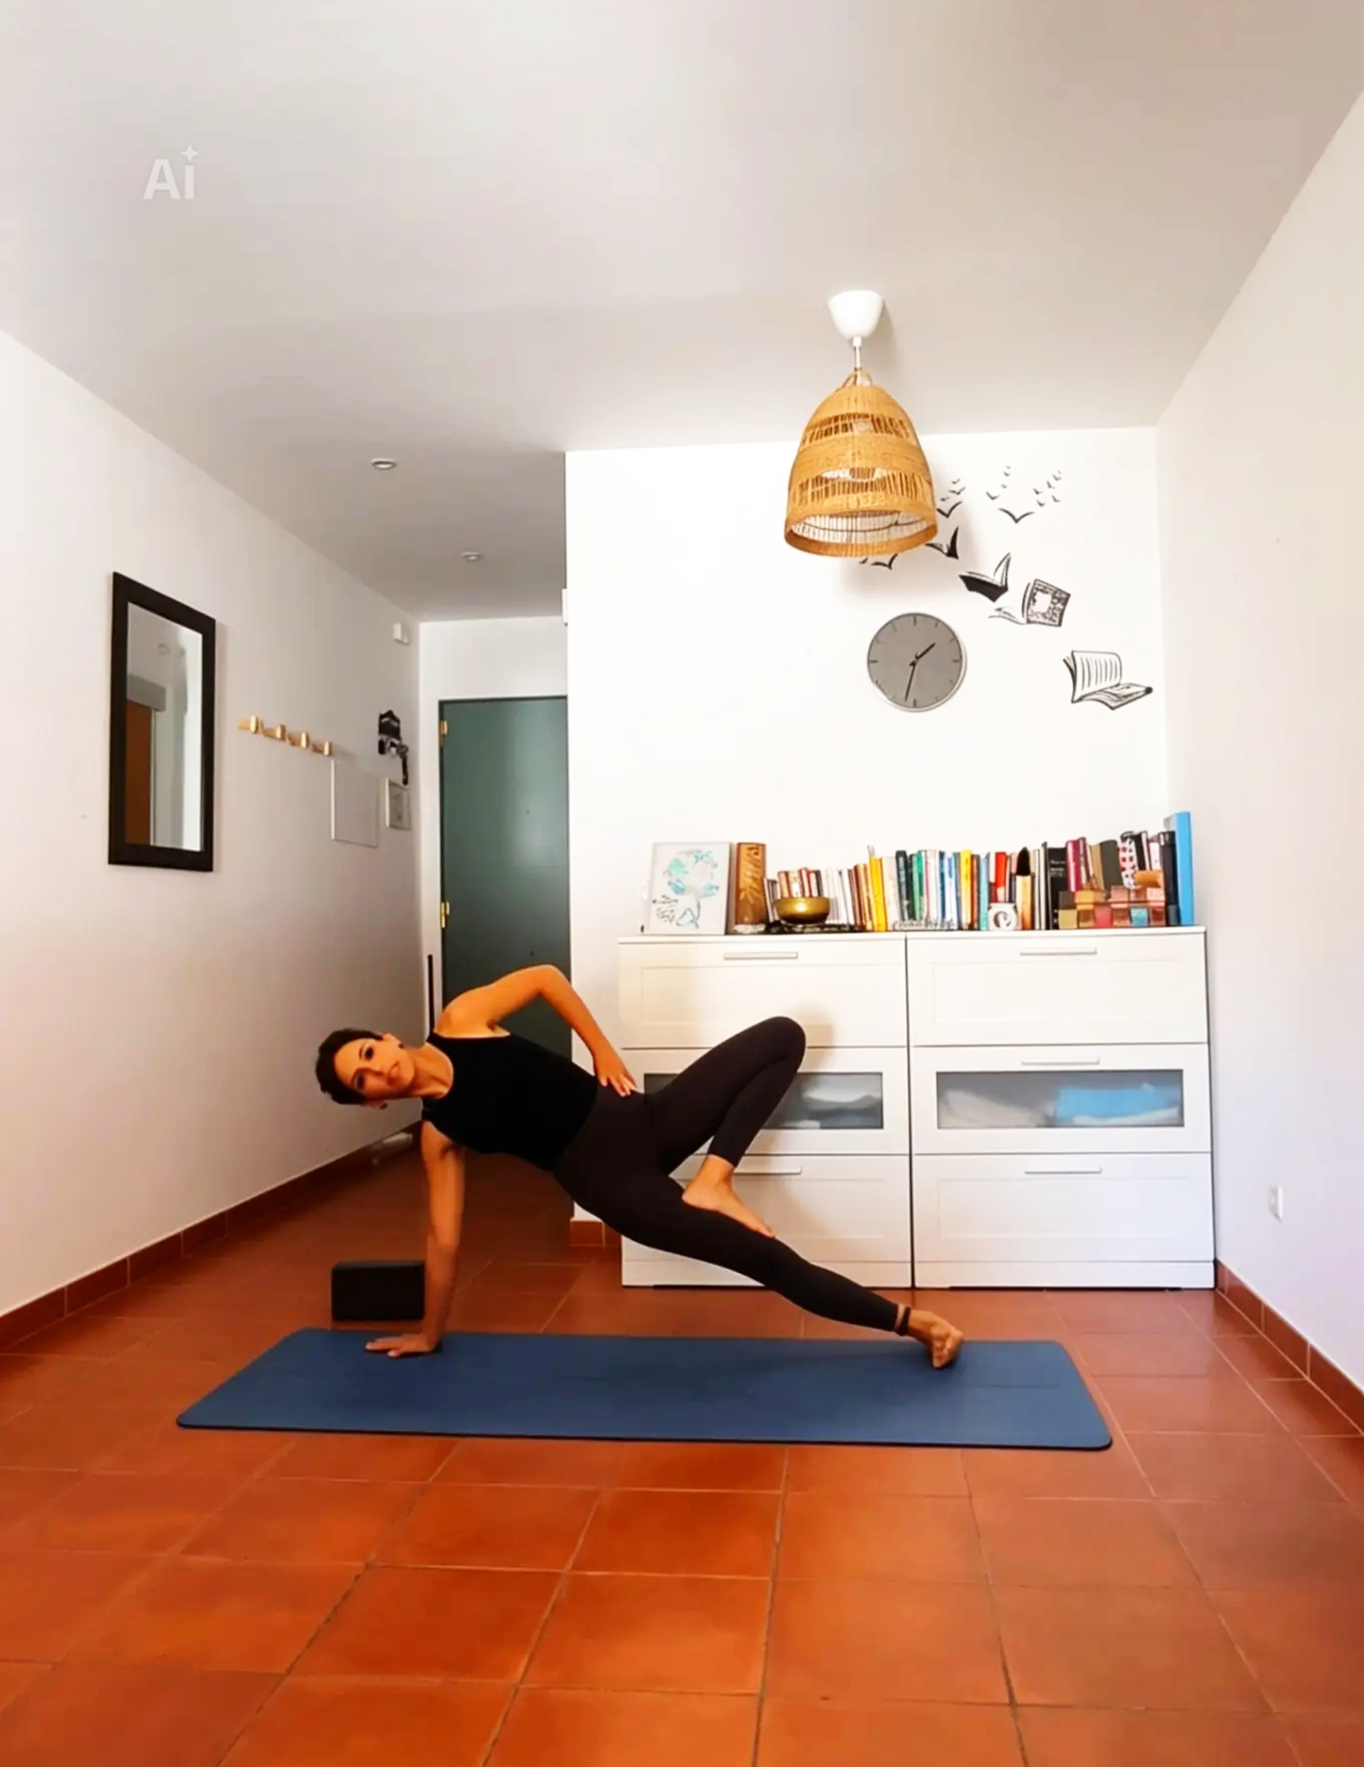
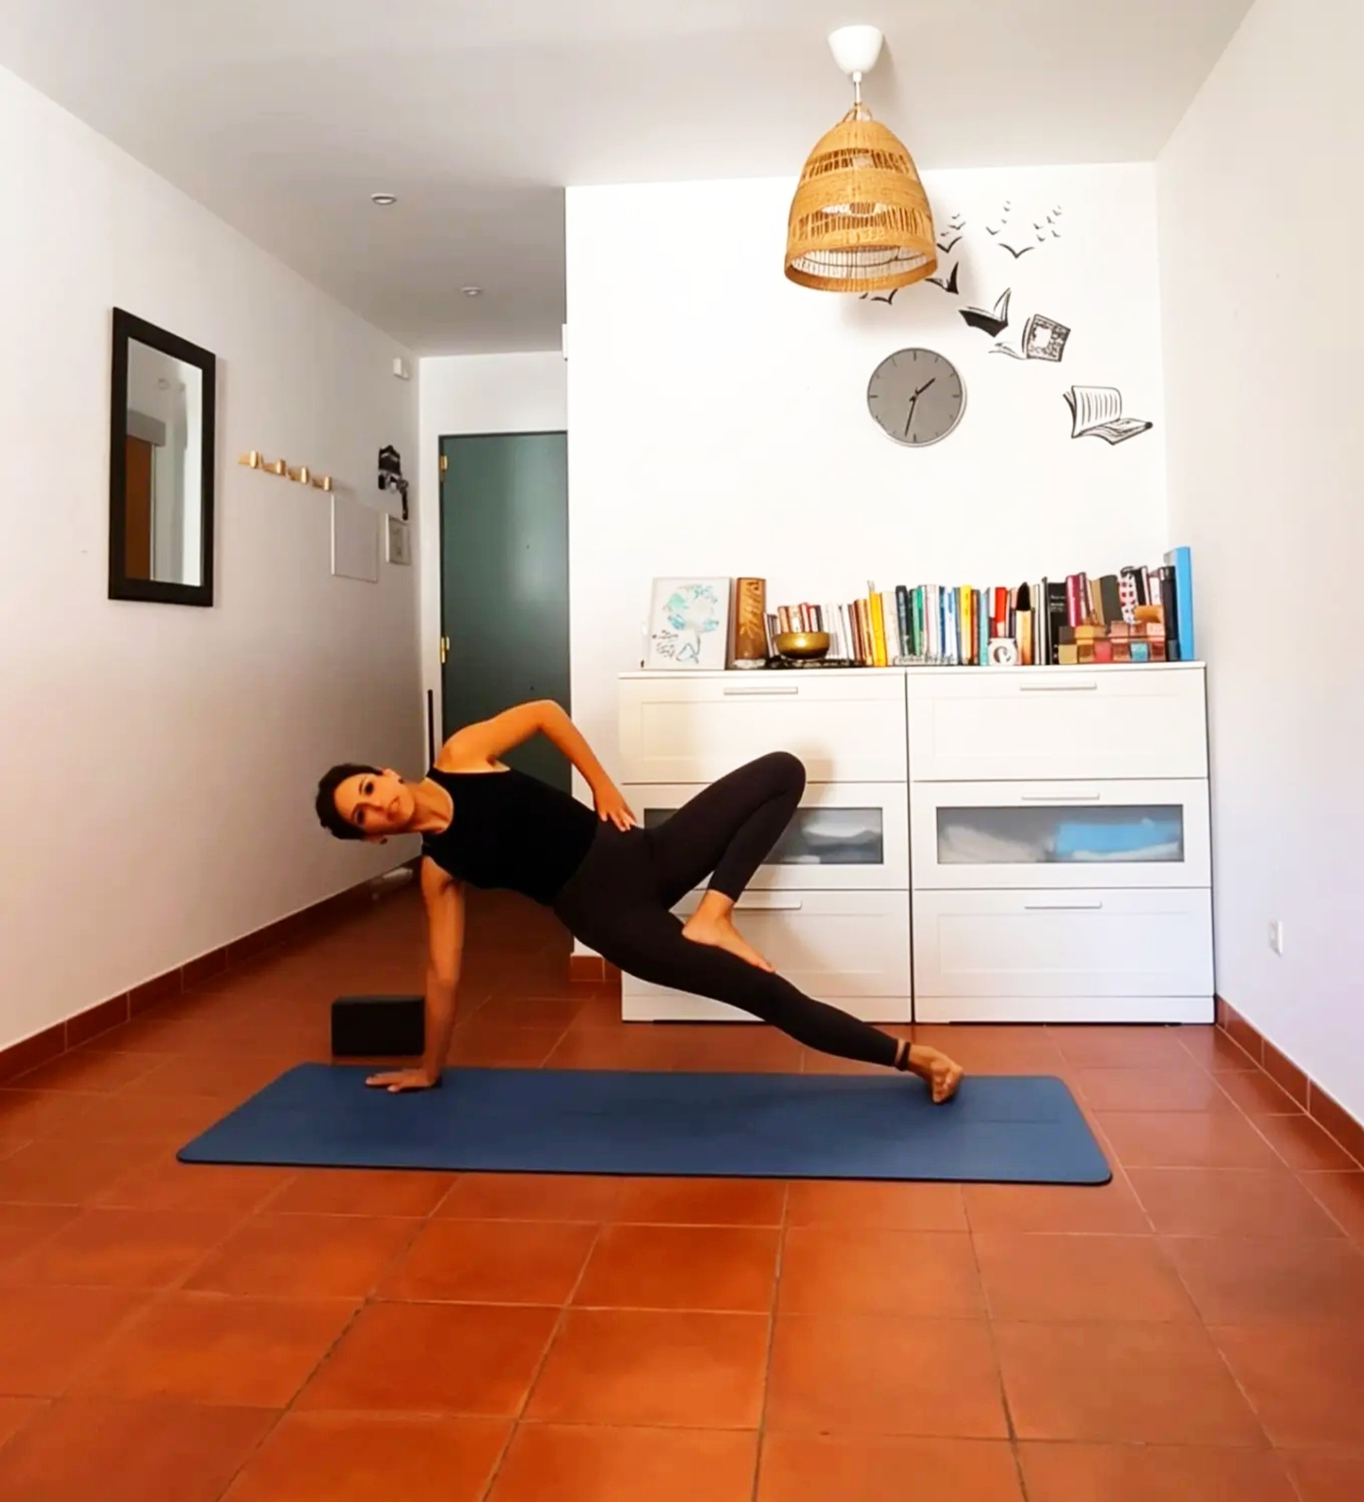
Añade el artículo Abhyasa y Vairagya, mejora la tipografía del blog y rediseña el modal de bienvenida
Nuevo artículo sobre los conceptos de práctica constante y desapego al
resultado de los Yoga Sutras, con encuadre de portada ajustado para
desktop y móvil. Los subtítulos de los tres artículos del blog pasan a
mayúsculas con acento de marca y el texto de párrafo es más grande y
legible. El modal de bienvenida al iniciar sesión incorpora el icono
de la marca y un fondo más cuidado en vez de la caja plana anterior.

Claude-Session: https://claude.ai/code/session_017kxmKA6VURmgad1ureyhM5

diff --git a/frontend/src/data/blogPosts.js b/frontend/src/data/blogPosts.js
@@ -8,6 +8,61 @@
 
 export const BLOG_POSTS = [
   {
+    slug: 'abhyasa-y-vairagya',
+    titulo: 'Abhyasa y Vairagya: la práctica constante y el desapego al resultado',
+    resumen: 'Dos palabras sánscritas de los Yoga Sutras que se sostienen mutuamente: la práctica constante y el desapego a los resultados. Por qué un cuerpo diferente cada día no es un problema que resolver, sino el punto de partida real.',
+    imagenPortada: '/images/yoga27.jpg',
+    imagenPortadaAlt: 'Postura de perro boca abajo, metáfora de la constancia y el desapego al resultado',
+    fecha: '2026-08-25',
+    tiempoLectura: '7 min de lectura',
+    contenido: [
+      {
+        tipo: 'parrafo',
+        texto: 'Cada cuerpo que llega a la esterilla es distinto y no solo de una persona a otra, sino del mismo cuerpo de un día para otro. Hoy quizá llega con energía de sobra; mañana, cansado, dolorido, con la cabeza en otro sitio. Eso no es un fallo en tu práctica: es lo normal. Hay dos palabras sánscritas, tan antiguas como los propios Yoga Sutras de Patanjali, que explican por qué esa variación no solo no estorba el camino del yoga, sino que es parte de él: Abhyasa y Vairagya.',
+      },
+      { tipo: 'subtitulo', texto: 'Abhyasa — el gesto de volver, una y otra vez' },
+      {
+        tipo: 'parrafo',
+        texto: 'Patanjali lo dice en el sutra 1.13: "tatra sthitau yatno\'bhyasah" — el esfuerzo sostenido por permanecer estable es Abhyasa. No es intensidad puntual ni un arranque de motivación de enero: es repetición. El sutra siguiente, el 1.14, lo deja aún más claro: la práctica se afianza de verdad cuando se sostiene mucho tiempo, sin interrupción, y con una actitud sincera hacia ella. Ni un fin de semana de retiro intensivo ni una racha de tres semanas perfectas — es volver, sesión tras sesión, durante meses, durante años, aunque algunos días sean diez minutos y otros una hora entera.',
+      },
+      {
+        tipo: 'parrafo',
+        texto: 'Es exactamente lo que trabajamos en "El regreso constante", una de las clases del Pack Raíz: notar que la mente se fue, y volver. Sin culpa. Las veces que haga falta.',
+      },
+      { tipo: 'subtitulo', texto: 'Vairagya — soltar el apego a lo que la postura debería ser' },
+      {
+        tipo: 'parrafo',
+        texto: 'Si Abhyasa es el esfuerzo de seguir, Vairagya es soltar la necesidad de que ese esfuerzo produzca un resultado concreto. El sutra 1.15 lo define como el dominio de no anhelar aquello que ves o de lo que oyes hablar — en la esterilla, eso se traduce en no perseguir la foto de la postura perfecta, no medir la clase de hoy contra la de la semana pasada, no necesitar que el cuerpo obedezca. Vairagya no es indiferencia ni pasividad: puedes seguir intentando la postura con todo tu esfuerzo y, al mismo tiempo, no necesitar que salga de una manera concreta para que la práctica haya valido la pena.',
+      },
+      { tipo: 'subtitulo', texto: 'Por qué van siempre de la mano' },
+      {
+        tipo: 'parrafo',
+        texto: 'Patanjali las presenta juntas, en el mismo sutra, por una razón: por separado, cada una se tuerce. Abhyasa sin Vairagya se convierte en exigencia — practicar para conseguir, para lucir, para llegar a algún sitio, y castigarte cuando no llegas. Vairagya sin Abhyasa se convierte en resignación — dejar de intentarlo con la excusa de "total, da igual". Juntas son otra cosa: sigues apareciendo en la esterilla con disciplina real, y sueltas la necesidad de que ese esfuerzo se traduzca en un logro visible. Practicas por practicar. Eso, paradójicamente, es lo que sostiene una práctica durante años, cuando la motivación por sí sola ya se ha agotado mil veces.',
+      },
+      { tipo: 'imagen', src: '/images/yoga26.jpg', alt: 'Manos y pies apoyados en la esterilla, detalle del esfuerzo sostenido' },
+      { tipo: 'subtitulo', texto: 'Desmitificar la perfección de la asana' },
+      {
+        tipo: 'parrafo',
+        texto: 'En el primer artículo de este blog hablé de cómo Patanjali define Asana con solo dos palabras: sthira sukham asanam, estable y cómoda. No dice nada de lo abierta que debe quedar la cadera ni de si el talón toca el suelo. Aun así, es fácil caer en la idea de que existe una "versión correcta" de cada postura y que el objetivo es conquistarla. Esa búsqueda de perfección forzar una flexibilidad que hoy no tienes, sostener una postura más allá de lo que tu cuerpo te pide con tal de completarla es exactamente lo contrario de Vairagya. Adaptar la postura a tu cuerpo, y no tu cuerpo a la postura, no es conformarse: es la práctica misma.',
+      },
+      { tipo: 'imagen', src: '/images/yoga18.jpg', alt: 'Práctica sentada en calma junto a la ventana, sin buscar la perfección' },
+      { tipo: 'subtitulo', texto: 'Un cuerpo diferente cada día, y eso es lo natural' },
+      {
+        tipo: 'parrafo',
+        texto: 'Hay días en los que subes a la esterilla sin energía. Días con una rodilla que avisa, una noche mal dormida, una cabeza que no para. Nada de eso es un obstáculo para la práctica — es la práctica, tal cual se presenta hoy. Abhyasa no pide un cuerpo constante: pide que vuelvas, sea cual sea el cuerpo que traigas. Y Vairagya es lo que te permite volver sin la exigencia de que hoy tenga que parecerse a tu mejor día. Adaptas la postura, bajas la intensidad, a veces simplemente respiras — y eso también cuenta, entero, como práctica.',
+      },
+      { tipo: 'subtitulo', texto: 'Lo que se transforma no es solo el cuerpo' },
+      {
+        tipo: 'parrafo',
+        texto: 'Practicar así, una y otra vez, sin aferrarte al resultado, tiene un efecto que va mucho más allá de lo físico. Cuando sueltas la necesidad de que cada sesión sea "buena" según algún criterio externo, empiezas a tratarte con la misma paciencia con la que tratarías a alguien que quieres — lo que en psicología se conoce como autocompasión. Con el tiempo, ese gesto repetido de volver sin juzgarte se traslada fuera de la esterilla: a cómo respondes cuando un plan no sale, cuando cometes un error, cuando el día no rinde lo que esperabas. La constancia sin apego no solo cambia la flexibilidad de tus caderas — cambia, poco a poco, la relación que tienes contigo misma.',
+      },
+      {
+        tipo: 'parrafo',
+        texto: 'En eso están, en el fondo, todas las clases del Pack Raíz: no en conquistar posturas, sino en sostener la práctica y soltar el resultado, una vez tras otra. Si algún día llegas a la esterilla sin energía, sin flexibilidad, sin ganas, sube igual. Eso también es Abhyasa. Y no le pidas que sea perfecta. Eso es Vairagya.',
+      },
+    ],
+  },
+  {
     slug: 'los-ocho-pasos-de-patanjali',
     titulo: 'Los ocho pasos de Patanjali',
     resumen: 'La postura es solo uno de los ocho escalones del yoga. Un recorrido por el Ashtanga de los Yoga Sutras, de la ética hacia los demás a la unión final.',
@@ -18,16 +73,16 @@ export const BLOG_POSTS = [
     contenido: [
       {
         tipo: 'parrafo',
-        texto: 'Cuando alguien empieza yoga, casi siempre piensa en el cuerpo: en estirar, en fortalecer, en esa postura que todavía no le sale. Y está bien empezar ahí — yo también empecé ahí. Pero hace más de dos mil años, un sabio llamado Patanjali recopiló los Yoga Sutras, un texto breve y denso que describe el yoga no como una serie de posturas, sino como un camino de ocho pasos: el Ashtanga (de "ashta", ocho, y "anga", miembro o escalón). La postura, Asana, es solo el tercero.',
+        texto: 'Cuando alguien empieza yoga, casi siempre piensa en el cuerpo: en estirar, en fortalecer, en esa postura que todavía no le sale. Y está bien empezar ahí yo también empecé ahí. Pero hace más de dos mil años, un sabio llamado Patanjali recopiló los Yoga Sutras, un texto breve y denso que describe el yoga no como una serie de posturas, sino como un camino de ocho pasos: el Ashtanga (de "ashta", ocho, y "anga", miembro o escalón). La postura, Asana, es solo el tercero.',
       },
       {
         tipo: 'parrafo',
-        texto: 'No hace falta recorrerlos en fila india ni dominar uno para pasar al siguiente — en la práctica real se entrelazan. Pero conocerlos ayuda a entender por qué una clase de yoga bien dada no es solo gimnasia con música relajante. Aquí van, uno a uno.',
+        texto: 'No hace falta recorrerlos en fila india ni dominar uno para pasar al siguiente en la práctica real se entrelazan. Pero conocerlos ayuda a entender por qué una clase de yoga bien dada no es solo gimnasia con música relajante. Aquí van, uno a uno.',
       },
       { tipo: 'subtitulo', texto: '1. Yama — cómo te relacionas con lo que te rodea' },
       {
         tipo: 'parrafo',
-        texto: 'Los Yamas son cinco principios éticos, orientados hacia fuera: Ahimsa (no causar daño), Satya (honestidad), Asteya (no tomar lo que no es tuyo), Brahmacharya (uso consciente de la energía) y Aparigraha (no acumular de más). No son mandamientos abstractos — son preguntas que te puedes hacer en la esterilla: ¿te estás forzando en una postura hasta hacerte daño? Eso también es una falta de Ahimsa, hacia ti misma.',
+        texto: 'Los Yamas son cinco principios éticos, orientados hacia fuera: Ahimsa (no causar daño), Satya (honestidad), Asteya (no tomar lo que no es tuyo), Brahmacharya (uso consciente de la energía) y Aparigraha (no acumular de más). No son mandamientos abstractos , son preguntas que te puedes hacer en la esterilla: ¿te estás forzando en una postura hasta hacerte daño? Eso también es una falta de Ahimsa, hacia ti misma.',
       },
       { tipo: 'subtitulo', texto: '2. Niyama — cómo te relacionas contigo misma' },
       {
@@ -37,13 +92,13 @@ export const BLOG_POSTS = [
       { tipo: 'subtitulo', texto: '3. Asana — el cuerpo como punto de partida, no de llegada' },
       {
         tipo: 'parrafo',
-        texto: 'Patanjali define Asana con solo dos palabras: "sthira sukham asanam" — la postura debe ser estable y cómoda a la vez. No dice nada de flexibilidad ni de lo bonita que se vea en una foto. Por eso en mis clases insisto tanto en el ajuste: una postura mal alineada no es más yoga por ser más intensa, es simplemente una postura que no va a sostenerte. El cuerpo bien colocado es el que te permite quedarte, respirar, y seguir hacia dentro.',
+        texto: 'Patanjali define Asana con solo dos palabras: "sthira sukham asanam" la postura debe ser estable y cómoda a la vez. No dice nada de flexibilidad ni de lo bonita que se vea en una foto. Por eso en mis clases insisto tanto en el ajuste: una postura mal alineada no es más yoga por ser más intensa, es simplemente una postura que no va a sostenerte. El cuerpo bien colocado es el que te permite quedarte, respirar, y seguir hacia dentro.',
       },
       { tipo: 'imagen', src: '/images/avanzadoa1.jpg', alt: 'Postura de yoga con alineación y ajuste preciso' },
       { tipo: 'subtitulo', texto: '4. Pranayama — el puente entre cuerpo y mente' },
       {
         tipo: 'parrafo',
-        texto: 'Pranayama es la extensión (ayama) de la fuerza vital (prana) a través de la respiración. Es el primer paso que ya no se ve tanto desde fuera — nadie sabe si estás haciendo Ujjayi o respirando de cualquier manera, pero tú sí lo notas. Es también el puente: mientras el cuerpo se educa con Asana, la respiración empieza a educar a la mente.',
+        texto: 'Pranayama es la extensión (ayama) de la fuerza vital (prana) a través de la respiración. Es el primer paso que ya no se ve tanto desde fuera ,nadie sabe si estás haciendo Ujjayi o respirando de cualquier manera, pero tú sí lo notas. Es también el puente: mientras el cuerpo se educa con Asana, la respiración empieza a educar a la mente.',
       },
       { tipo: 'imagen', src: '/images/yogarespiracion.jpg', alt: 'Práctica de respiración consciente, pranayama' },
       { tipo: 'subtitulo', texto: '5. Pratyahara — retirar los sentidos hacia dentro' },
@@ -54,7 +109,7 @@ export const BLOG_POSTS = [
       { tipo: 'subtitulo', texto: '6. Dharana — la concentración' },
       {
         tipo: 'parrafo',
-        texto: 'Con los sentidos ya no tirando hacia fuera, Dharana es posar la atención en un solo punto — la respiración, una vela, una palabra — y sostenerla ahí. Suena sencillo y es, para la mayoría, lo más difícil de los ocho pasos. La mente se va. Se nota. Se vuelve. Se va otra vez.',
+        texto: 'Con los sentidos ya no tirando hacia fuera, Dharana es posar la atención en un solo punto , la respiración, una vela, una palabra  y sostenerla ahí. Suena sencillo y es, para la mayoría, lo más difícil de los ocho pasos. La mente se va. Se nota. Se vuelve. Se va otra vez.',
       },
       { tipo: 'subtitulo', texto: '7. Dhyana — la meditación' },
       {
@@ -69,7 +124,7 @@ export const BLOG_POSTS = [
       { tipo: 'imagen', src: '/images/yoga-36.jpg', alt: 'Práctica de yoga en calma, integrando cuerpo y mente' },
       {
         tipo: 'parrafo',
-        texto: 'En mis clases trabajamos sobre todo los primeros cuatro pasos — el cuerpo, la ética cotidiana, la respiración — porque son la puerta de entrada real para la mayoría de nosotras. No hace falta llegar a Samadhi para que el yoga funcione: basta con empezar por donde estás, con un ajuste preciso y una respiración que acompañe. Lo demás, si llega, llega solo.',
+        texto: 'En mis clases trabajamos sobre todo los primeros cuatro pasos ,el cuerpo, la ética cotidiana, la respiración  porque son la puerta de entrada real para la mayoría de nosotras. No hace falta llegar a Samadhi para que el yoga funcione: basta con empezar por donde estás, con un ajuste preciso y una respiración que acompañe. Lo demás, si llega, llega solo.',
       },
     ],
   },
@@ -84,7 +139,7 @@ export const BLOG_POSTS = [
     contenido: [
       {
         tipo: 'parrafo',
-        texto: 'Hay una paradoja incómoda en cualquier camino de crecimiento personal: la misma práctica que debería aflojar el ego puede convertirse en su escondite favorito. Pasa con el yoga, con la meditación, con cualquier disciplina que hable de "conciencia". En vez de soltar, el ego se disfraza de espiritual y sigue haciendo lo de siempre — solo que ahora con incienso.',
+        texto: 'Hay una paradoja incómoda en cualquier camino de crecimiento personal: la misma práctica que debería aflojar el ego puede convertirse en su escondite favorito. Pasa con el yoga, con la meditación, con cualquier disciplina que hable de "conciencia". En vez de soltar, el ego se disfraza de espiritual y sigue haciendo lo de siempre solo que ahora con incienso.',
       },
       { tipo: 'subtitulo', texto: 'Cuando la práctica se convierte en otro logro más' },
       {

diff --git a/frontend/src/index.css b/frontend/src/index.css
@@ -3625,11 +3625,35 @@ a.nav-logo {
 .modal-close:hover { color: var(--dark); }
 
 .welcome-modal {
-  max-width: 420px;
-  padding: 3rem 2.5rem 2.5rem;
+  max-width: 440px;
+  padding: 3rem 2.75rem 2.75rem;
   text-align: center;
-  background: #faf5ef;
-  border-radius: 1.25rem;
+  background: radial-gradient(120% 140% at 50% 0%, #fff9f2 0%, #faf1e6 55%, #f5e9da 100%);
+  border-radius: 1.5rem;
+  box-shadow: 0 24px 60px rgba(140,78,47,0.22), 0 0 0 1px rgba(212,160,96,0.18);
+}
+
+.welcome-modal-icon-wrap {
+  display: flex;
+  justify-content: center;
+  margin-bottom: 1.1rem;
+}
+
+.welcome-modal-icon {
+  width: 40px;
+  height: 40px;
+  color: var(--tierra);
+}
+
+.welcome-modal-eyebrow {
+  font-family: var(--font-heading);
+  font-size: 0.72rem;
+  font-style: italic;
+  letter-spacing: 0.3em;
+  text-transform: uppercase;
+  color: var(--accent);
+  opacity: 0.85;
+  margin: 0 0 1.3rem;
 }
 
 .welcome-modal-text {
@@ -7357,6 +7381,12 @@ a.nav-logo {
 .blog-post-hero-img--ego {
   object-position: center 20%;
 }
+.blog-post-hero--abhyasa {
+  min-height: 78vh;
+}
+.blog-post-hero-img--abhyasa {
+  object-position: center 68%;
+}
 .blog-post-hero-overlay {
   position: absolute;
   inset: 0;
@@ -7395,25 +7425,43 @@ a.nav-logo {
 }
 
 .blog-post-body {
-  max-width: 680px;
+  max-width: 700px;
   margin: 0 auto;
   padding: 3.5rem 2rem 2rem;
 }
 .blog-post-parrafo {
-  font-size: 1.02rem;
-  line-height: 1.85;
-  color: #4a4a4a;
-  margin: 0 0 1.4rem;
+  font-size: 1.16rem;
+  line-height: 1.9;
+  color: #3d3d3d;
+  margin: 0 0 1.5rem;
+}
+.blog-post-body > .blog-post-parrafo:first-child {
+  font-size: 1.3rem;
+  line-height: 1.75;
+  color: var(--dark);
+  font-weight: 500;
 }
 .blog-post-subtitulo {
-  font-family: var(--font-heading);
-  font-size: 1.4rem;
-  font-weight: 500;
-  color: var(--dark);
-  margin: 2.2rem 0 1rem;
+  font-family: var(--font-body);
+  font-size: 0.92rem;
+  font-weight: 700;
+  letter-spacing: 0.14em;
+  text-transform: uppercase;
+  color: var(--tierra);
+  margin: 3rem 0 1.2rem;
+  position: relative;
+}
+.blog-post-subtitulo::before {
+  content: '';
+  display: block;
+  width: 36px;
+  height: 3px;
+  border-radius: 2px;
+  background: linear-gradient(90deg, var(--accent), var(--tierra));
+  margin-bottom: 1rem;
 }
 .blog-post-imagen {
-  margin: 2rem 0;
+  margin: 2.25rem 0;
 }
 .blog-post-imagen img {
   width: 100%;
@@ -7455,4 +7503,5 @@ a.nav-logo {
 @media (max-width: 640px) {
   .blog-post-hero-content { padding: 4.5rem 1.25rem 2rem; }
   .blog-post-body { padding: 2.5rem 1.25rem 1rem; }
+  .blog-post-hero-img--abhyasa { object-position: center 88%; }
 }

diff --git a/frontend/src/components/WelcomeModal.jsx b/frontend/src/components/WelcomeModal.jsx
@@ -12,6 +12,16 @@ export default function WelcomeModal() {
     <div className="modal-overlay open" onClick={e => { if (e.target === e.currentTarget) clearWelcomeMessage() }}>
       <div className="modal-content welcome-modal">
         <button className="modal-close" onClick={clearWelcomeMessage} aria-label="Cerrar">&times;</button>
+        <div className="welcome-modal-icon-wrap">
+          <svg className="welcome-modal-icon" viewBox="0 0 36 36" fill="none" stroke="currentColor" strokeWidth="1.6" strokeLinecap="round" strokeLinejoin="round" aria-hidden="true">
+            <path d="M6 26 Q18 23 30 26" opacity="0.7"/>
+            <line x1="18" y1="26" x2="18" y2="16"/>
+            <path d="M18 21 C14 17 9 19 11 23" fill="rgba(212,160,96,0.12)"/>
+            <path d="M18 19 C22 15 27 17 25 21" fill="rgba(212,160,96,0.12)"/>
+            <path d="M18 16 C17 13 15 11 18 10 C21 11 19 13 18 16"/>
+          </svg>
+        </div>
+        <p className="welcome-modal-eyebrow">Yoga Tierra Viva</p>
         <p className="welcome-modal-text">{mensaje}</p>
       </div>
     </div>

diff --git a/frontend/src/pages/BlogPostPage.jsx b/frontend/src/pages/BlogPostPage.jsx
@@ -32,11 +32,11 @@ export default function BlogPostPage() {
 
   return (
     <article className="blog-post">
-      <header className={`blog-post-hero${slug === 'el-ego-espiritual' ? ' blog-post-hero--ego' : ''}`}>
+      <header className={`blog-post-hero${slug === 'el-ego-espiritual' ? ' blog-post-hero--ego' : ''}${slug === 'abhyasa-y-vairagya' ? ' blog-post-hero--abhyasa' : ''}`}>
         <img
           src={post.imagenPortada}
           alt={post.imagenPortadaAlt || post.titulo}
-          className={`blog-post-hero-img${slug === 'el-ego-espiritual' ? ' blog-post-hero-img--ego' : ''}`}
+          className={`blog-post-hero-img${slug === 'el-ego-espiritual' ? ' blog-post-hero-img--ego' : ''}${slug === 'abhyasa-y-vairagya' ? ' blog-post-hero-img--abhyasa' : ''}`}
         />
         <div className="blog-post-hero-overlay" />
         <div className="blog-post-hero-content">
